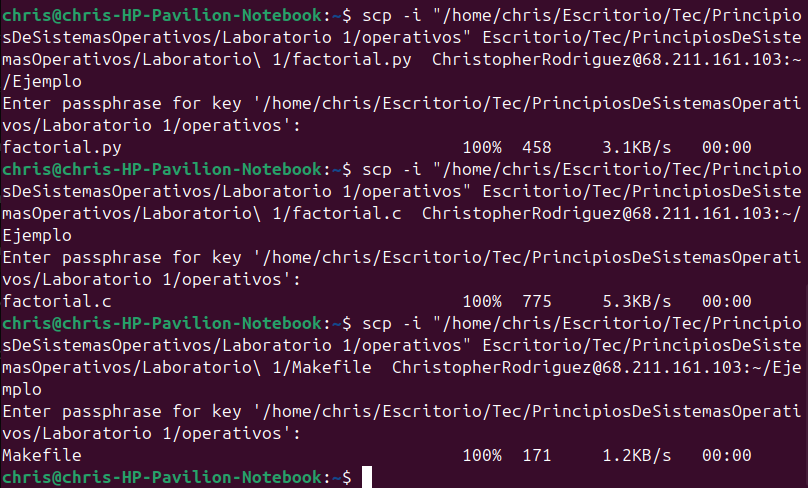
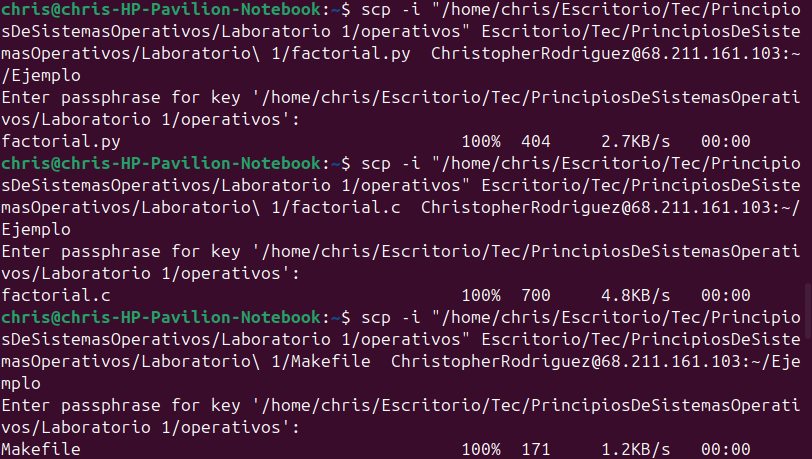
Ahora si tiempo finales de vm

diff --git a/factorial.c b/factorial.c
@@ -17,25 +17,23 @@ int main(){
 
     clock_t inicio, fin;
     double tiempo;
-    int i= 3;
 
-    while(i--){
-        printf("Ingrese un número para calcular su factorial: ");
-        if (scanf("%d", &num) != 1) {
-            fprintf(stderr, "Error: entrada inválida\n");
-            return 1;
-        }
-
-        inicio = clock();
-        
-        sink = factorial(num);
-
-        fin = clock();
-
-        tiempo = (double)(fin - inicio) / CLOCKS_PER_SEC;
-
-        //printf("El factorial de %d es: %lld\n", num, resultado);
-        printf("Tiempo: %f\n", tiempo);
+    printf("Ingrese un número para calcular su factorial: ");
+    if (scanf("%d", &num) != 1) {
+        fprintf(stderr, "Error: entrada inválida\n");
+        return 1;
     }
+
+    inicio = clock();
+        
+    sink = factorial(num);
+
+    fin = clock();
+
+    tiempo = (double)(fin - inicio) / CLOCKS_PER_SEC;
+
+    //printf("El factorial de %d es: %lld\n", num, resultado);
+    printf("Tiempo: %f\n", tiempo);
+    
     return 0;
 }

diff --git a/factorial.py b/factorial.py
@@ -8,17 +8,12 @@ def factorial(n):
         return 1
     return n * factorial(n-1)
 
-i=3
+input_str = input("Ingrese un número para calcular su factorial: ")
+num = int(input_str)
 
-while i:
+inicio = time.time()
+resultado = factorial(num)
+fin = time.time()
 
-    input_str = input("Ingrese un número para calcular su factorial: ")
-    num = int(input_str)
-
-    inicio = time.time()
-    resultado = factorial(num)
-    fin = time.time()
-
-    #print("Factorial:", resultado)
-    print("Tiempo:", fin - inicio)
-    i -= 1
+#print("Factorial:", resultado)
+print("Tiempo:", fin - inicio)
